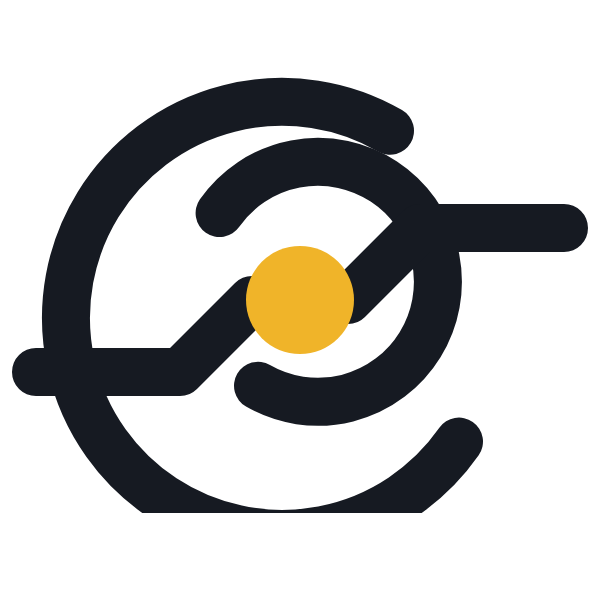
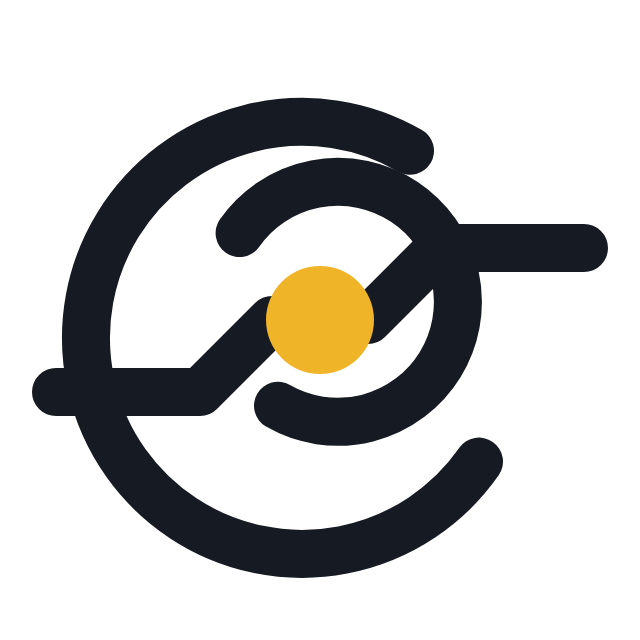
Sokrates: 2513 Befund TMview, Empfehlung; PNG neu; Übergabe
Claude-Session: https://claude.ai/code/session_01Fyc4rcVaLbkQjNNUNkjq8v

diff --git a/docs/ARBEIT-BERATUNG.md b/docs/ARBEIT-BERATUNG.md
@@ -3,13 +3,13 @@
 Nur Aufträge des Chefs: Markt, Geschäftsmodell, Strategie, Kosten-Nutzen des Produkts (`ROLLE-BERATUNG.md`). Kein Eingang für Teams. Größe höchstens etwa 15 KB.
 
 
-**Übergabe (21.10., 19:46, „Sokrates – Stab des Chefs (21.10., 18:11)“ `session_01UR9buB7nzT8YbmMHtXGW4W`):** 261.5 Perikles' Änderung geprüft (Chef 18:28), Lehre in `ROLLE-PROJEKT.md`; `CLAUDE.md`: Bild „Wie in einer Firma“, „aufstrebende“ zurück, Haltung 4 „sehen heißt sagen“ und 7 „gemeinsames Maß“ (Chef-Ja 19:35); Versionen t62/t63 nachgetragen, Werkzeug-Vorschlag an Perikles (Nachricht, Eintrag in seinen Vorrat prüfen); 251.2 erinnert, TMview-Befund der Desktop-Sitzung → Chefsache 2512; 284 entschieden (Vollgas bis Sa vormittag), an Perikles; 285 Kosten beantwortet. Kosten auf: 261.5, 251.2, 284. Nachfolger: Sokrates – Stab des Chefs.
+**Übergabe (21.10., 20:54, „Sokrates – Stab des Chefs (21.10., 19:48)“ `session_01Fyc4rcVaLbkQjNNUNkjq8v`):** Vorgänger archiviert, Chef-Satz zum automatischen Archivieren an Ford (Eingang); 251.2 entschieden (abheben), 251.3 erst Homer, dann vom Chef an Sokrates (20:29); Skizzen selbst gezeichnet (Scratchpad, Werkzeug: SVG per Python, Bild per Chromium), Chef wählte Wirbel, dann „3 Leiterbahn“; TMview über Desktop-Sitzung (kein gleiches Zeichen) → Chefsache 2513 mit Empfehlung ja; nach „Leiterbahn ja“: Vorgangsarchiv, Datei löschen, 251.1 an Homer freigeben (SVG `chefsache/bilder/2513-leiterbahn.svg`). Lehre: Zeitstempel nur von der Uhr. Kosten auf: 251.3, 261.5. Nachfolger: Sokrates – Stab des Chefs.
 
 ## Zeilen
 
 | Nr. | Kl. | Thema | Stand |
 |---|---|---|---|
-| 251.3 | M | **von Chef (21.10., 20:03; 20:29 an Sokrates):** Logo B abheben: „was richtig Geiles. Einfach.“, nicht an microTEC und COGITANDA erinnernd; Sokrates zeichnet selbst | wartet auf Chef: Chefsache 2513 (Leiterbahn gewählt 20:41; TMview über Desktop-Sitzung) |
+| 251.3 | M | **von Chef (21.10., 20:03; 20:29 an Sokrates):** Logo B abheben: „was richtig Geiles. Einfach.“, nicht an microTEC und COGITANDA erinnernd; Sokrates zeichnet selbst | wartet auf Chef: Chefsache 2513 (Leiterbahn gewählt 20:41; TMview 20:50 kein gleiches Zeichen; Empfehlung ja) |
 | 264 | K | **von Chef (20.10., 21:02):** Arbeitsorte neben GitHub (Synology-NAS, Proxmox, ALL-INKL), wie berechtigen, Entwicklung ganz woanders? | wartet auf Chef: Chefsache 264 (Empfehlung: GitHub bleibt Mitte, NAS Spiegelkopie und Belege, ALL-INKL Webseite, Proxmox noch nicht) |
 | 263 | K | **von Chef (20.10., abends, an Desktop-Sokrates, übergeben 20:58):** feste Rolle für Finanzen, Einnahmenüberschussrechnung, Geschäftszimmer? | Monatsabschluss erstmals 01.11. (Vorgangsarchiv 263): Belege vollständig, Fristen; Sitzung „Sokrates – BornWire“, Ablage außerhalb des Repos |
 | 262 | K | **von Chef (20.10., 20:13):** „Was können wir damit anfangen?“ (Hinweis der App: monatliche API-Credits für Apps und Agents im Plan) | ruht: keine Rückfrage gestellt (Chef 22:47: „262 liegt nicht bei mir...“); auf, wenn der Chef den Betrag nennt; Empfehlung: Versuch, Routine auf kleines Modell; nie ins Spiel |

diff --git a/docs/chefsache/entscheiden/2513-logo-leiterbahn.md b/docs/chefsache/entscheiden/2513-logo-leiterbahn.md
@@ -12,7 +12,12 @@ Abgleich Sokrates mit beiden Marken: kein gemeinsames Merkmal mehr außer „dun
 
 ## Frage
 
-Die Bildsuche geht nur aus einem Browser auf deinem Rechner (aus der Cloud antwortet TMview nicht). Startest du dafür eine Desktop-Sitzung mit dem Text unten? Ist nichts Ähnliches dabei, ist die Leiterbahn das Logo, und Homer baut die Geschäftspapiere (251.1).
+**Neu (20:53, nach Befund TMview unten):** Leiterbahn als Logo nehmen? Dann Homer: Geschäftspapiere (251.1), alte Bilder `251-*` löschen.
+
+**Empfehlung Sokrates (20:53):** ja. Kein gleiches Zeichen; am nächsten Noelse (EUIPO, nur angemeldet, Finanz/Telekom/IT, mit uns nur Klasse 42 gemeinsam, ohne Goldkern und Leiterbahn). Unser Kern sind Spiele (9, 41).
+*Stärkstes Gegenargument:* Gegenläufige Bögen mit Strich gibt es mehrfach (Noelse, Seibel, Beisswenger); das Zeichen ist damit gut nutzbar, als eigene Marke aber nur mäßig unterscheidbar. Melden wir es später an, vorher bezahlte Recherche.
+
+**Erledigt:** Die Bildsuche lief über die Desktop-Sitzung (unten). Ursprüngliche Frage: „Startest du dafür eine Desktop-Sitzung mit dem Text unten?“ PNG ist neu erzeugt, nicht mehr abgeschnitten.
 
 **Text für die Desktop-Sitzung:**
 > Sokrates, 251.3: Öffne TMview (tmdn.org/tmview), Bildsuche („Search by image“) mit `docs/chefsache/bilder/2513-leiterbahn.png` aus dem Repo (main). Filter: Nizza-Klassen 9, 41, 42; Gebiete DE, EU, WIPO. Die ersten 50 Treffer ansehen und je ähnlichem Treffer Inhaber, Nummer, Amt, Klassen und Status notieren, dazu ein Satz, was gleich ist. Ergebnis in diese Datei unter „Befund TMview“ schreiben, pushen, mir per Nachricht melden.
@@ -37,10 +42,10 @@ Desktop-Sitzung „Chrome-Sitzung steuern“, 21.10., 20:50. TMview-Bildsuche mi
 
 Einschätzung Desktop-Sitzung (keine Rechtsberatung): Keiner der Treffer hat die Kombination aus Goldkern, gegenläufigen Bögen und Leiterbahn mit zwei Knicken, die links und rechts herausragt. Am nächsten sind Noelse (nur angemeldet, Überschneidung nur Klasse 42) und Process Point (9, 42). Risiko aus der Bildsuche eher gering; Rechtssicherheit vor einer eigenen Markenanmeldung weiter nur über bezahlte Recherche.
 
-Hinweis: `bilder/2513-leiterbahn.png` ist unten abgeschnitten, der äußere Bogen endet an der Bildkante. Vor Briefkopf und Druck das PNG neu aus dem SVG erzeugen.
+Hinweis: `bilder/2513-leiterbahn.png` war unten abgeschnitten; neu erzeugt 21.10., 20:53 (Sokrates).
 
 **Berührt:** 251 (Logo), 251.1 (Geschäftspapiere, Homer), 252 (Webseite), 253.
 
 ## Antwort
 
-„Desktop-Sitzung läuft“ oder „ohne Suche nehmen“.
+„Leiterbahn ja“ oder „nochmal: …“.
